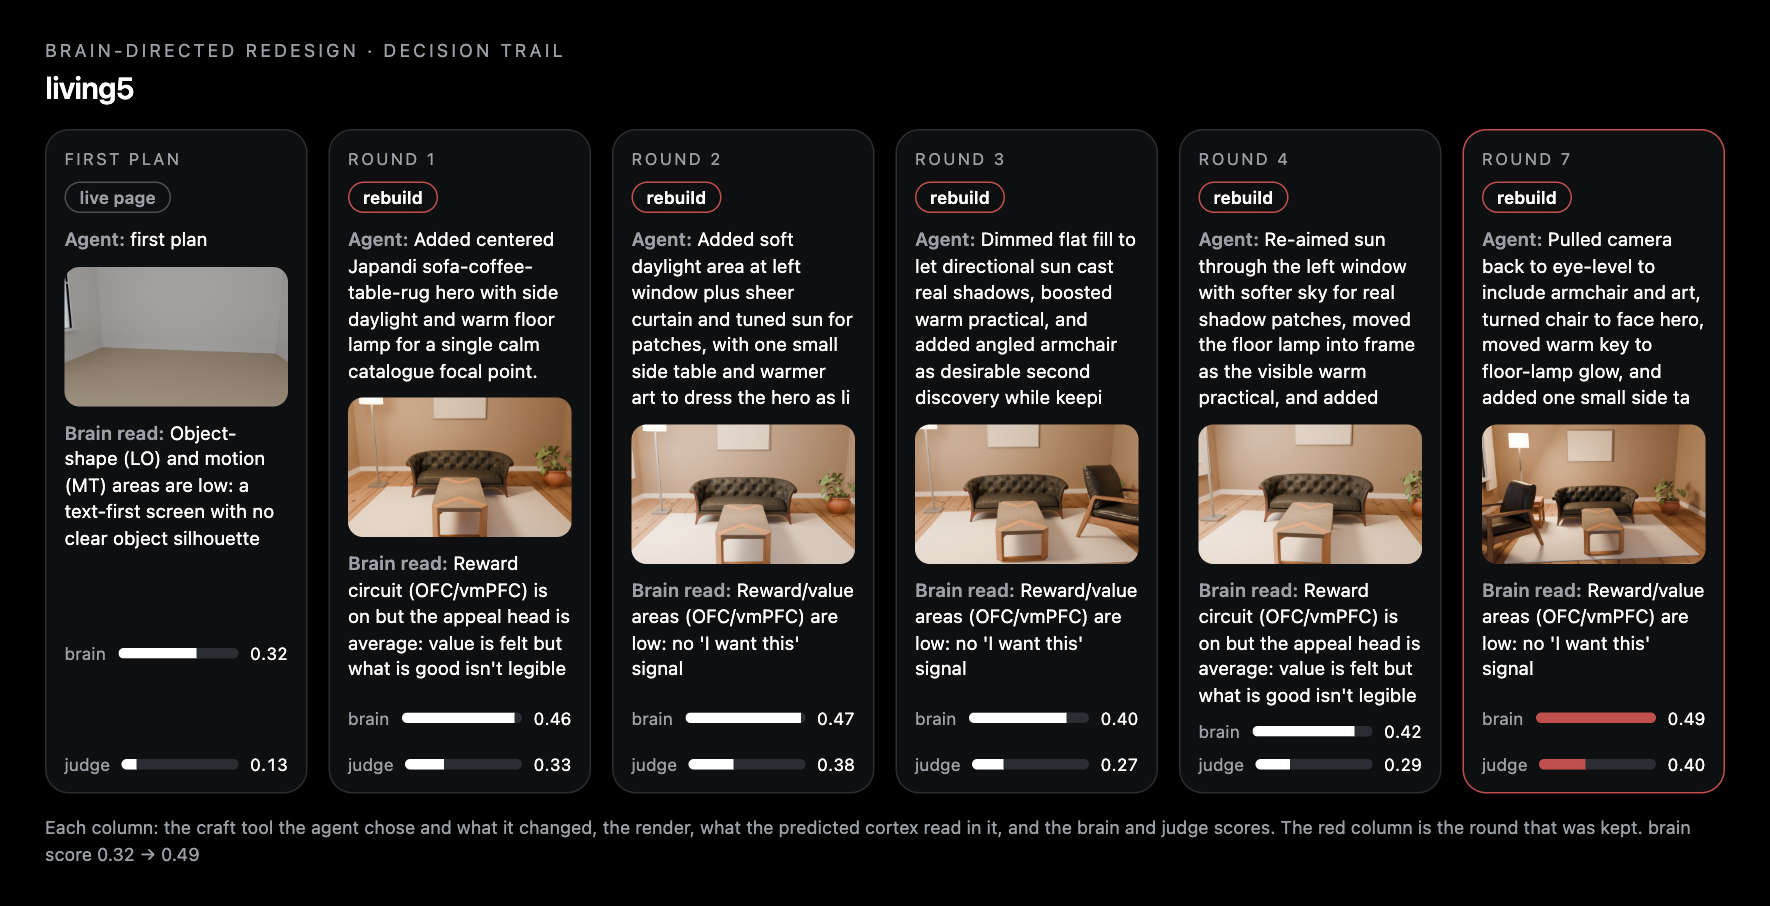
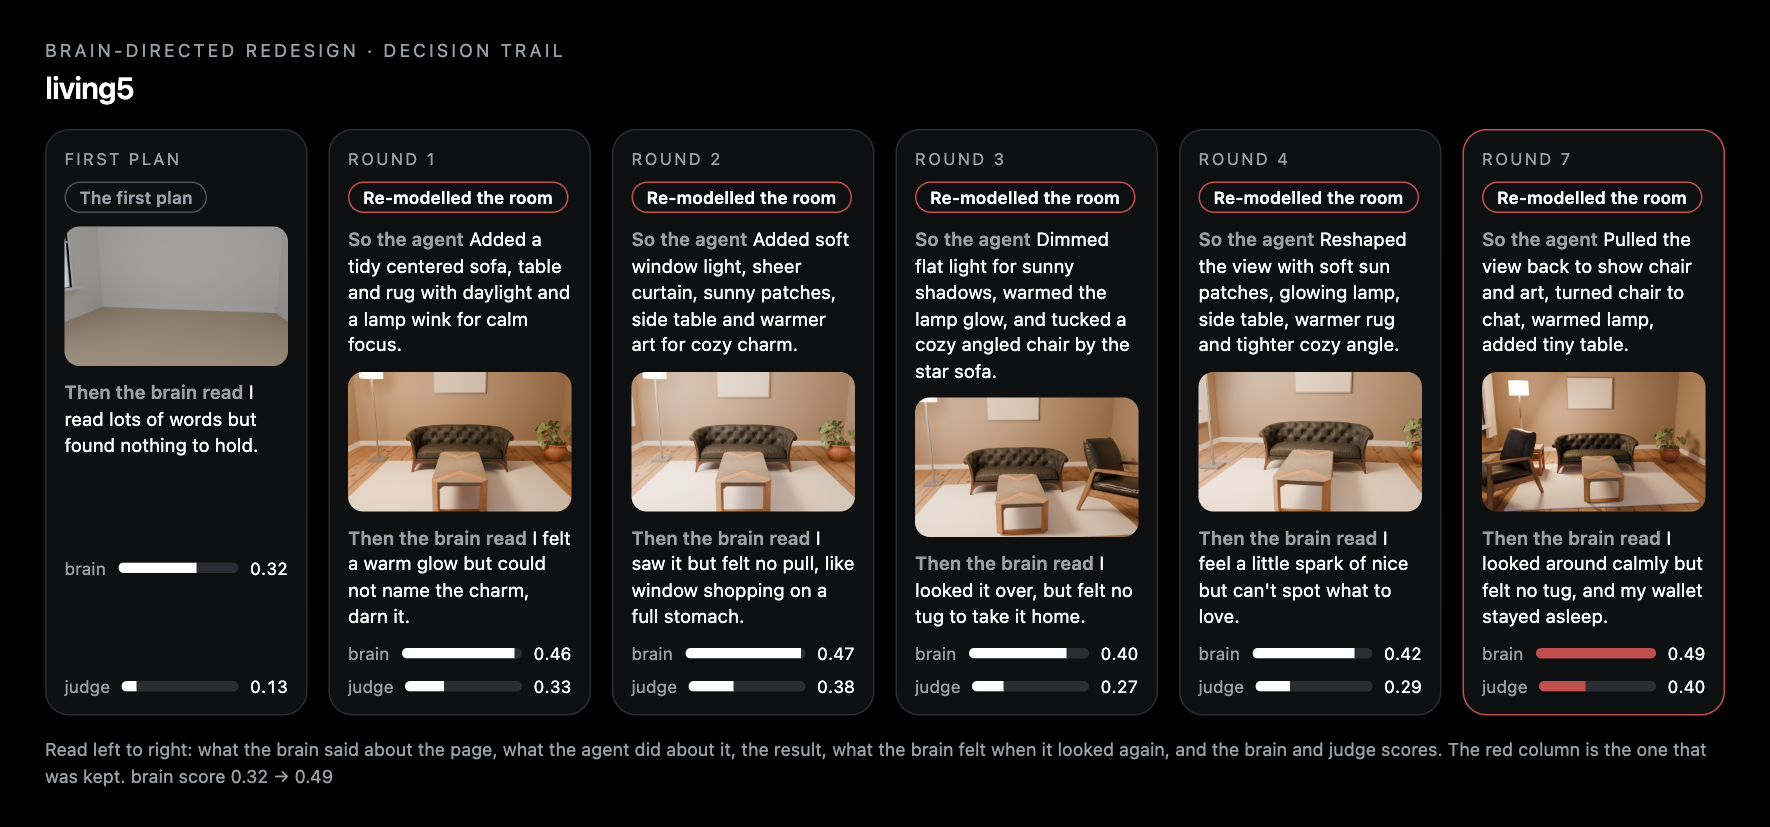
README: the brain narrates its decision trails; concrete comparison table (room, ad clip, Hacker News, craigslist) with the gates' rejections shown as such; storyline narration rule

diff --git a/brainsense/showcase/trail.py b/brainsense/showcase/trail.py
@@ -18,7 +18,7 @@ from pathlib import Path
 TOOL_WORDS = {
     "blender_render": "Modelled it in 3D", "render": "Modelled it in 3D", "typography": "Reset the type", "reflow": "Moved things around",
     "photo": "Found a real photo", "restyle_asset": "Kept the real one, restyled it", "keep_asset": "Kept the real one",
-    "copy": "Re-flowed the words", "rebuild": "Rebuilt the page", "live page": "The page as it is", "first plan": "The first plan",
+    "copy": "Re-flowed the words", "rebuild": "Rebuilt the page", "rerender": "Re-modelled the room", "live page": "The page as it is", "first plan": "The first plan",
 }
 
 
@@ -133,7 +133,7 @@ def _rounds(rep: dict, root: Path) -> list[dict]:
         jscore = judge.get("judge_score") if isinstance(judge, dict) else judge
         out.append({
             "round": s.get("round", i),
-            "tool": s.get("tool") or s.get("action") or (("live page" if rep.get("source") else "first plan") if i == 0 else "rebuild"),
+            "tool": s.get("tool") or s.get("action") or (("live page" if rep.get("source") else "first plan") if i == 0 else ("rebuild" if rep.get("source") else "rerender")),
             "why": s.get("why") or s.get("reason") or "",
             "critique": s.get("critique_line") or s.get("critique") or "",   # what the cortex said BEFORE this round (v2 trail)
             "read": (s.get("diagnosis", [""])[0] if isinstance(s.get("diagnosis"), list) else s.get("diagnosis") or ""),   # what it says about this round's result

diff --git a/docs/demo_storyline.md b/docs/demo_storyline.md
@@ -18,6 +18,9 @@ VO: "Every assistant will tell you your photo looks great. None of them looked, 
 
 VO lines, one per contrast: "It looks first, then speaks." · "What judges can also build." · "It learns your taste as rules you can read." · "Photos, clips, copy, sound: one brain." · "On your face, not in a text box."
 
+## Narration rule for every contrast
+Whenever a loop runs on screen, the brain narrates it in its own words, over the time-lapse: "I read lots of words but found nothing to hold" → the agent models a sofa → "a warm little buzz but I cannot tell what earns it" → the agent brings real sun through the window → "now my wallet woke up". The decision-trail strip (`brainsense/showcase/trail.py`) is the on-screen graphic for this; the voice reads the "brain said" lines.
+
 ## 1:40–2:05 Why this is new (the architecture, three cards, 8 s each, over `docs/architecture.svg`)
 Show the architecture figure and sweep left to right: Meta's open models (V-JEPA2, DINOv2, Llama 3.2, wav2vec-BERT → TRIBE v2 → predicted cortex) in grey, then the red part we built: calibrated heads with confidence, Engram memory, the Muse Spark agent that only ever sees head outputs, and the dashed loop where renders go back in as input.
 1. **Grounded, not improvised.** The opinion is a measurement: a predicted human cortex, heads calibrated on real ratings, confidence included. Low confidence is said out loud.
